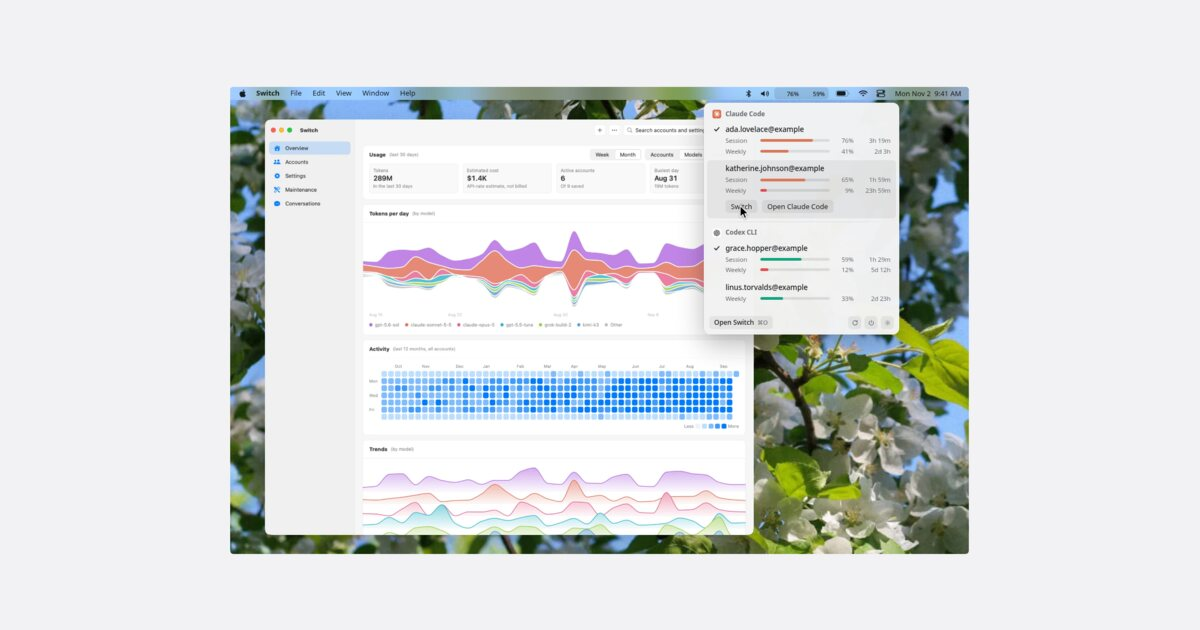
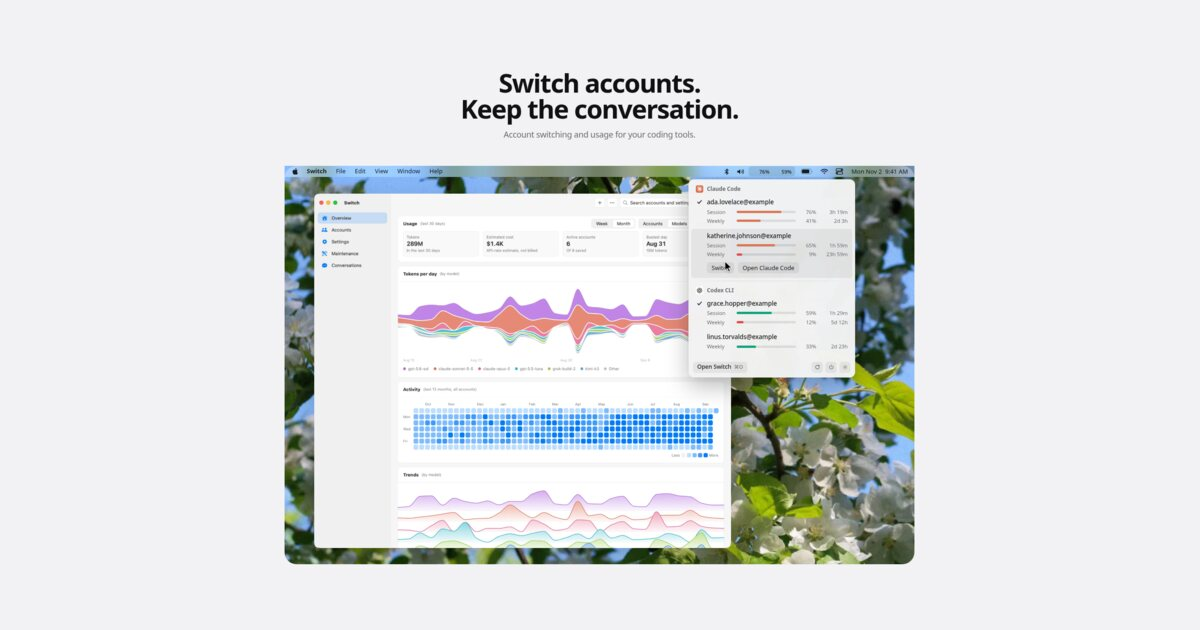
Restore the cover and smooth the demo

Changed region(s): [[0.185, 0.1206, 0.8325, 0.9048]]

diff --git a/docs/development.md b/docs/development.md
@@ -175,13 +175,14 @@ Update the script's pinned versions only after publishing matching assets.
 
 ## README cover
 
-The cover records the website's menu bar demo without its headline. On the
+The cover records the website's menu bar demo inside a light poster with its heading. On the
 rendering host, run `node packages/website/export-cover.cjs --gif` from the
 repository root to create the GIF and static reduced-motion fallback.
-The outer canvas is transparent; the desktop has 6px rounded corners.
+Only the area outside the cover's 6px corners is transparent. Its padding keeps the light background.
 It uses the existing Playwright installation under `packages/mac-gui/ui-lint`;
 set `PLAYWRIGHT_MODULE` or `CHROME_PATH` to use another installed renderer.
-GIF export also needs FFmpeg and ImageMagick. Temporary frames are removed after export.
+GIF export also needs FFmpeg and Gifsicle. Set `GIFSICLE_PATH` for a custom executable path.
+Temporary recordings are removed after export. ImageMagick builds the social preview below.
 Run `sh packages/website/build-assets.sh` to refresh the website assets,
 including the social preview. Check the README in light and dark mode at
 desktop and phone widths after replacing images.

diff --git a/specs/product.md b/specs/product.md
@@ -497,8 +497,8 @@ without privileges or writes. Public releases are Developer ID signed and notari
 (`release-macos.sh --xcode`). Keep install copy short, with no Gatekeeper warning blocks.
 
 Build, check, and upload Mac archives on the maintainer's Mac, never GitHub Actions.
-README uses website styling, real screenshots, short copy, limits, and current downloads.
-Cover: text-free website demo GIF, static reduced-motion fallback, 6px corners, transparent padding.
+README uses site styling, real screenshots, short copy, limits, and latest downloads.
+Cover: smooth demo and still fallback, heading, light fill, top space; only 6px corner cutouts are clear.
 Collapse requirements. One command installs Mac app/CLI or Linux CLI; check hashes.
 
 Memory: free main window/pages on close or hide to menu bar; login launches build no window.

diff --git a/README.md b/README.md
@@ -1,7 +1,7 @@
 <p align="center">
   <picture>
-    <source media="(prefers-reduced-motion: reduce)" srcset="docs/screenshots/cover-demo.png">
-    <img src="docs/screenshots/cover-demo.gif" alt="Switch menu bar demo: open the menu, select an account, and switch" width="100%">
+    <source media="(prefers-reduced-motion: reduce)" srcset="docs/screenshots/cover-smooth.png">
+    <img src="docs/screenshots/cover-smooth.gif" alt="Switch accounts. Keep the conversation. A menu bar demo shows account switching." width="100%">
   </picture>
 </p>
 
